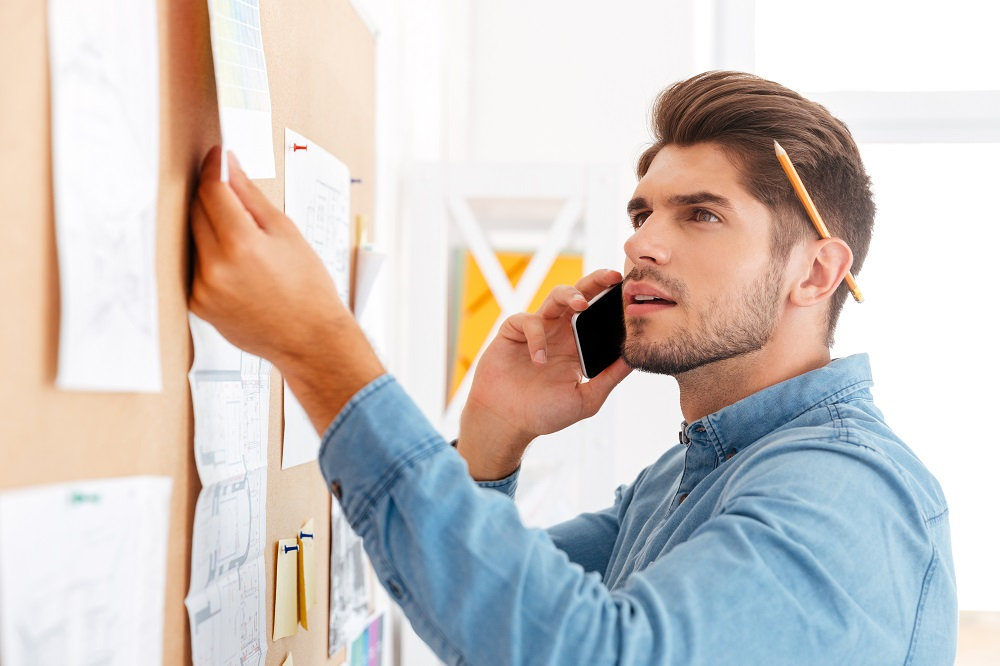
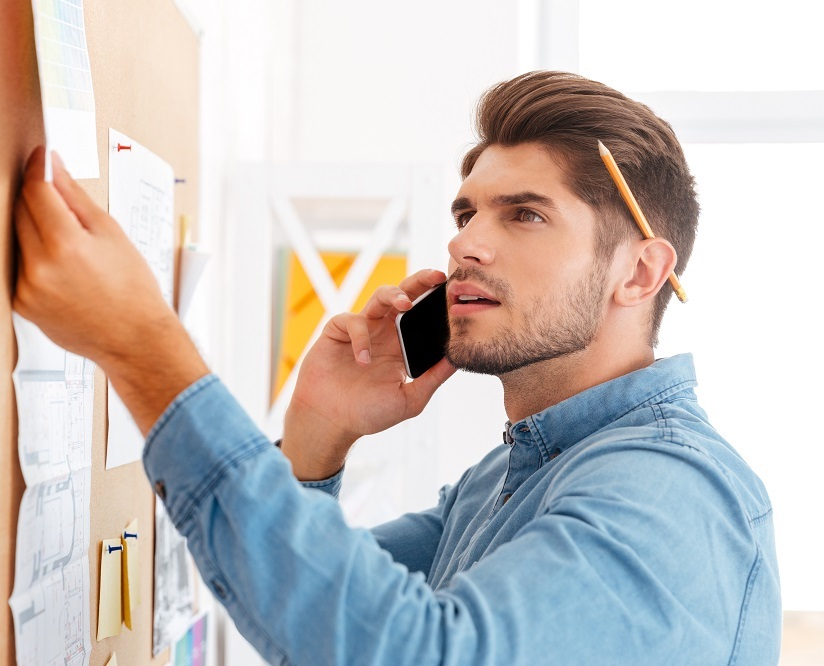
Resize pictures for schedule

diff --git a/src/styles/schedule.css b/src/styles/schedule.css
@@ -1,5 +1,7 @@
 .schedule {
-    display: grid;
+    display: flex;
+    flex-flow: row nowrap;
+    justify-content: center;
 }
 .schedule-content {
     margin-top: 3vh;
@@ -8,6 +10,7 @@
     margin-right: 1vw;
     border-style: solid;
     border-width: 0.5vh;
+    max-width: 30vw;
 }
 .schedule-header {
     margin-top: 1vh;
@@ -24,6 +27,30 @@
 .input-form * {
     margin-top: 1vh;
     margin-bottom: 1vh;
+}
+.image-container {
+    display: flex;
+    flex-flow: column nowrap;
+    justify-content: center;
+    margin-top: 3vh;
+    margin-bottom: 3vh;
+    margin-left: 1vw;
+    margin-right: 1vw;
+    max-width: 25vw;
+}
+.image-content {
+    max-width: 25vw;
+}
+@media screen and (max-width: 979px){
+    .schedule-content {
+        max-width: 80vw;
+    }
+    .image-container {
+        display: none;
+    }
+    .image-content {
+        display: none;
+    }
 }
 #schedule-link {
     border-style: solid;

diff --git a/src/schedule.html b/src/schedule.html
@@ -46,6 +46,9 @@
         </nav>
         <!-- Profile setup -->
         <div id="content" role="main" class="schedule">
+            <div class="image-container">
+                <img class="image-content" src="./images/schedule-one.jpg">
+            </div>
             <div class="schedule-content">
                 <div role="heading" aria-level="1" class="schedule-header">
                     Schedule
@@ -69,6 +72,9 @@
                     <input type="submit" value="Submit">
                     <input type="reset">
                 </form>
+            </div>
+            <div class="image-container">
+                <img class="image-content" src="./images/schedule-two.jpg">
             </div>
         </div>
         <!-- Footer -->
